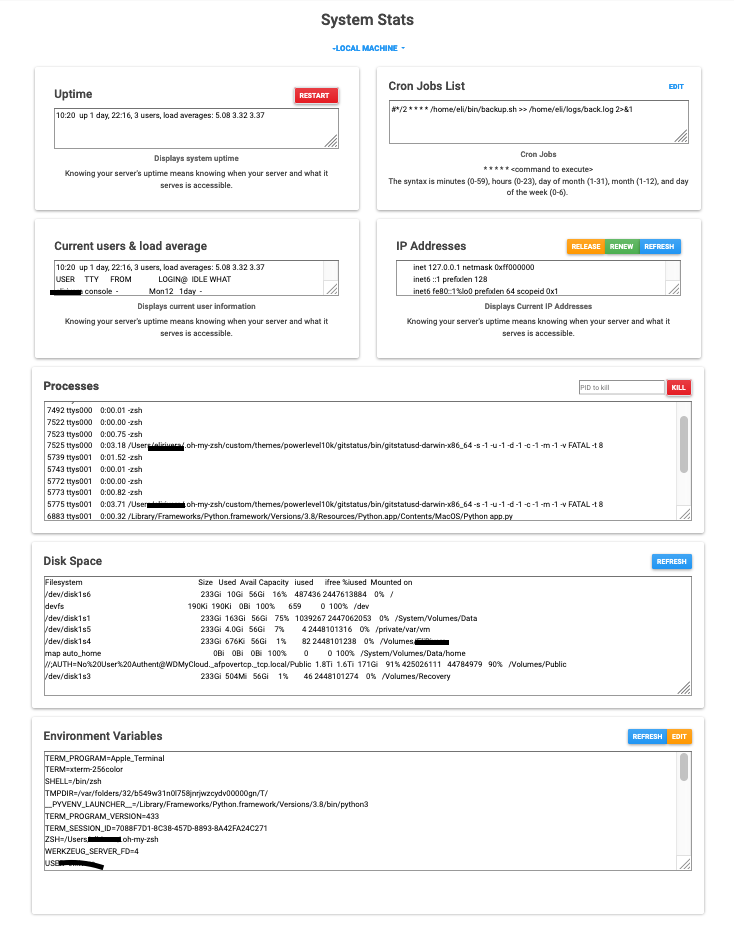
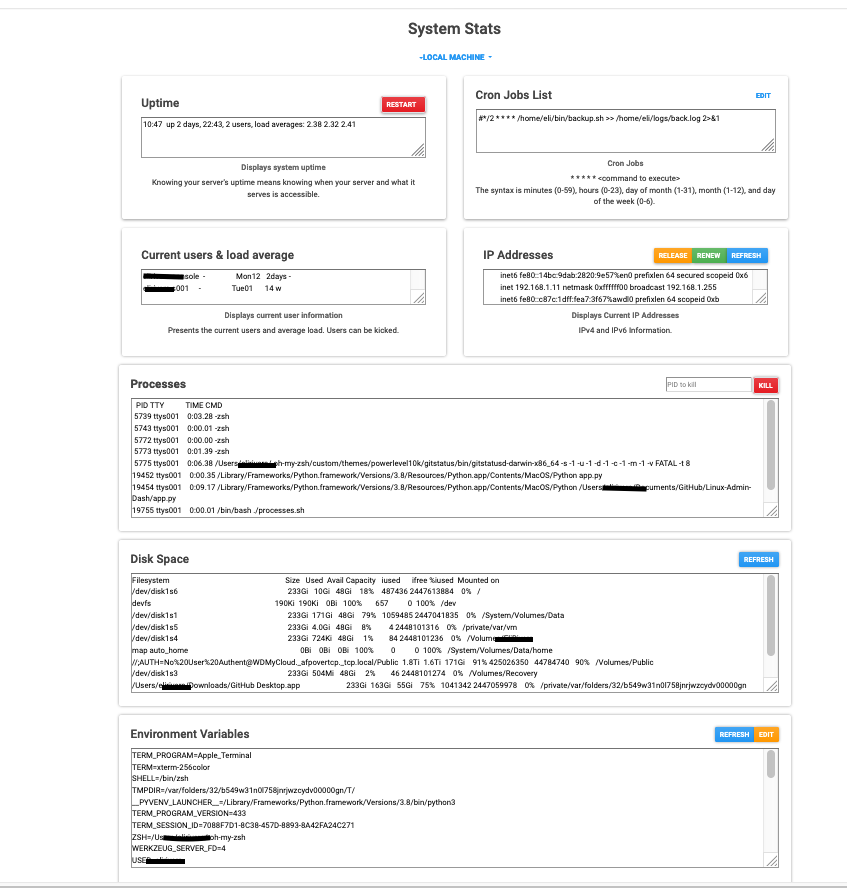
changed summary underneath cards and updated screenshot

Changed region(s): [[0.03, 0.0, 0.9591, 1.0], [0.4796, 0.3041, 0.5095, 0.3649], [0.4796, 0.2432, 0.5095, 0.2736]]

diff --git a/templates/stats.html b/templates/stats.html
@@ -124,7 +124,7 @@
                                 <div class="btn-group btn-group-sm float-right" role="group"><button class="btn btn-warning" type="submit"><strong>Release</strong></button><button class="btn btn-success" type="submit"><strong>REnew&nbsp;</strong></button><button class="btn btn-primary" type="submit"><strong>Refresh&nbsp;</strong></button></div>
                             </h4><textarea id="currentUsers-output">{{currentIPs}}</textarea>
                             <h6 class="text-muted card-subtitle mb-2" id="uptime-card-subtitle-heading">Displays&nbsp;Current IP Addresses</h6>
-                            <p class="card-text">Knowing your server's uptime means knowing when your server and what it serves is accessible.</p>
+                            <p class="card-text">IPv4 and IPv6 Information.</p>
                         </div>
                     </div>
                 </div>
